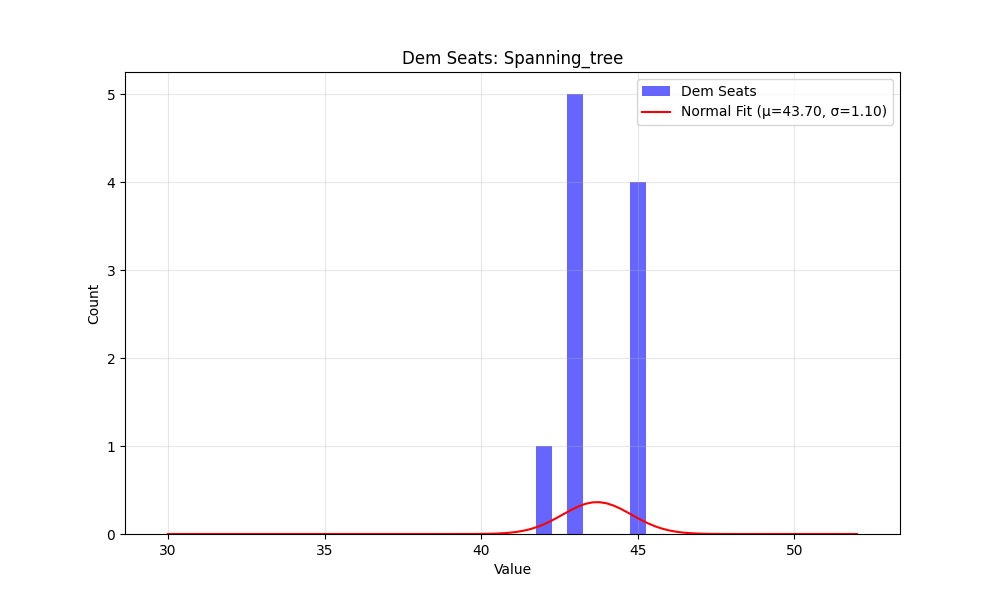
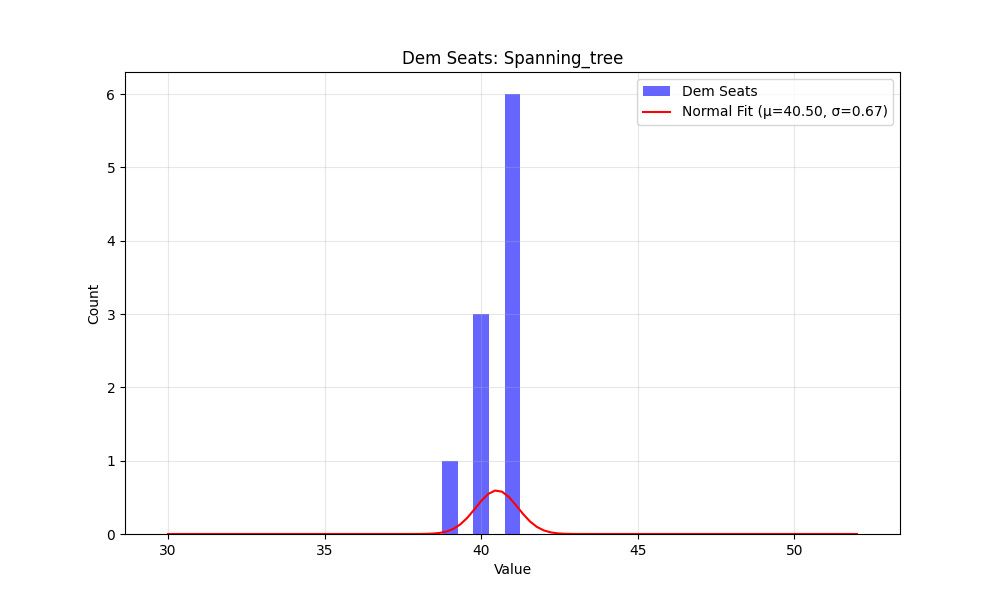
Tested 5% Shift

Changed region(s): [[0.434, 0.15, 0.682, 0.9], [0.682, 0.15, 0.899, 0.21]]

diff --git a/chain/process_results_with_shift.py b/chain/process_results_with_shift.py
@@ -132,9 +132,9 @@ def plot_seat_distribution(votes, partition_type, party_name):
 
 if __name__ == "__main__":
     # options: spanning_tree, random_nodes, current_districting
-    process_results("spanning_tree", percentShiftR=3)
-    #process_results("random_nodes", percentShiftR=6)
-    #process_results("current_districting")
+    process_results("spanning_tree", percentShiftR=5)
+    process_results("random_nodes", percentShiftR=5)
+    process_results("current_districting", percentShiftR=5)
 
 
 # Use function for both parties
